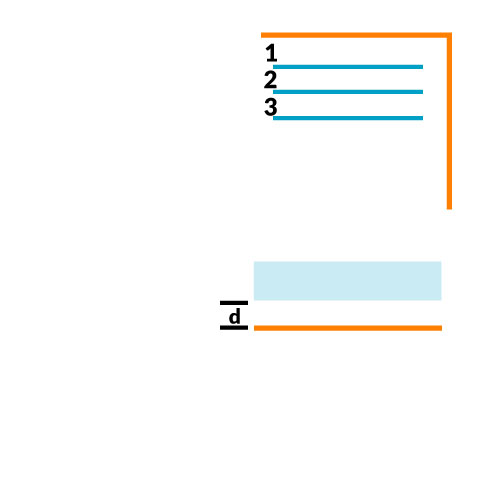
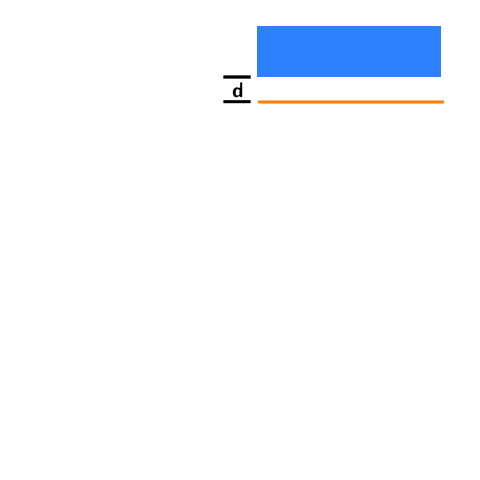
Contour Bnd Fixes, Large Offset fixes

Changed region(s): [[0.4688, 0.0312, 0.9688, 0.4375], [0.5312, 0.5312, 0.9375, 0.625], [0.4375, 0.625, 0.9375, 0.6875]]

diff --git a/SourceCode/GPS/Forms/Guidance/FormMakeBndCon.Designer.cs b/SourceCode/GPS/Forms/Guidance/FormMakeBndCon.Designer.cs
@@ -28,54 +28,12 @@
         /// </summary>
         private void InitializeComponent()
         {
-            this.nudPass = new System.Windows.Forms.NumericUpDown();
-            this.lblHz = new System.Windows.Forms.Label();
             this.btnOk = new System.Windows.Forms.Button();
             this.nudSpacing = new System.Windows.Forms.NumericUpDown();
             this.label1 = new System.Windows.Forms.Label();
             this.btnCancel = new System.Windows.Forms.Button();
-            ((System.ComponentModel.ISupportInitialize)(this.nudPass)).BeginInit();
             ((System.ComponentModel.ISupportInitialize)(this.nudSpacing)).BeginInit();
             this.SuspendLayout();
-            // 
-            // nudPass
-            // 
-            this.nudPass.BackColor = System.Drawing.Color.AliceBlue;
-            this.nudPass.Font = new System.Drawing.Font("Tahoma", 48F, System.Drawing.FontStyle.Regular, System.Drawing.GraphicsUnit.Point, ((byte)(0)));
-            this.nudPass.Location = new System.Drawing.Point(37, 69);
-            this.nudPass.Maximum = new decimal(new int[] {
-            9,
-            0,
-            0,
-            0});
-            this.nudPass.Minimum = new decimal(new int[] {
-            1,
-            0,
-            0,
-            0});
-            this.nudPass.Name = "nudPass";
-            this.nudPass.ReadOnly = true;
-            this.nudPass.Size = new System.Drawing.Size(120, 85);
-            this.nudPass.TabIndex = 5;
-            this.nudPass.TextAlign = System.Windows.Forms.HorizontalAlignment.Center;
-            this.nudPass.Value = new decimal(new int[] {
-            1,
-            0,
-            0,
-            0});
-            this.nudPass.Click += new System.EventHandler(this.NudPass_Click);
-            // 
-            // lblHz
-            // 
-            this.lblHz.AutoSize = true;
-            this.lblHz.BackColor = System.Drawing.Color.Transparent;
-            this.lblHz.Font = new System.Drawing.Font("Tahoma", 15.75F, System.Drawing.FontStyle.Bold);
-            this.lblHz.ImeMode = System.Windows.Forms.ImeMode.NoControl;
-            this.lblHz.Location = new System.Drawing.Point(34, 38);
-            this.lblHz.Name = "lblHz";
-            this.lblHz.Size = new System.Drawing.Size(84, 25);
-            this.lblHz.TabIndex = 250;
-            this.lblHz.Text = "Pass #";
             // 
             // btnOk
             // 
@@ -85,7 +43,7 @@
             this.btnOk.FlatStyle = System.Windows.Forms.FlatStyle.Flat;
             this.btnOk.Font = new System.Drawing.Font("Tahoma", 12F, System.Drawing.FontStyle.Bold);
             this.btnOk.Image = global::AgOpenGPS.Properties.Resources.OK64;
-            this.btnOk.Location = new System.Drawing.Point(341, 361);
+            this.btnOk.Location = new System.Drawing.Point(235, 257);
             this.btnOk.Margin = new System.Windows.Forms.Padding(5, 4, 5, 4);
             this.btnOk.Name = "btnOk";
             this.btnOk.Size = new System.Drawing.Size(129, 80);
@@ -98,7 +56,7 @@
             // 
             this.nudSpacing.BackColor = System.Drawing.Color.AliceBlue;
             this.nudSpacing.Font = new System.Drawing.Font("Tahoma", 48F, System.Drawing.FontStyle.Regular, System.Drawing.GraphicsUnit.Point, ((byte)(0)));
-            this.nudSpacing.Location = new System.Drawing.Point(30, 270);
+            this.nudSpacing.Location = new System.Drawing.Point(185, 123);
             this.nudSpacing.Maximum = new decimal(new int[] {
             4000,
             0,
@@ -117,7 +75,7 @@
             this.label1.BackColor = System.Drawing.Color.Transparent;
             this.label1.Font = new System.Drawing.Font("Tahoma", 15.75F, System.Drawing.FontStyle.Bold);
             this.label1.ImeMode = System.Windows.Forms.ImeMode.NoControl;
-            this.label1.Location = new System.Drawing.Point(34, 211);
+            this.label1.Location = new System.Drawing.Point(19, 140);
             this.label1.Name = "label1";
             this.label1.Size = new System.Drawing.Size(160, 50);
             this.label1.TabIndex = 253;
@@ -133,7 +91,7 @@
             this.btnCancel.Font = new System.Drawing.Font("Tahoma", 14.25F, System.Drawing.FontStyle.Regular, System.Drawing.GraphicsUnit.Point, ((byte)(0)));
             this.btnCancel.ForeColor = System.Drawing.SystemColors.ControlText;
             this.btnCancel.Image = global::AgOpenGPS.Properties.Resources.Cancel64;
-            this.btnCancel.Location = new System.Drawing.Point(225, 360);
+            this.btnCancel.Location = new System.Drawing.Point(119, 256);
             this.btnCancel.Margin = new System.Windows.Forms.Padding(2, 3, 2, 3);
             this.btnCancel.Name = "btnCancel";
             this.btnCancel.Size = new System.Drawing.Size(91, 81);
@@ -148,15 +106,13 @@
             this.AutoScaleMode = System.Windows.Forms.AutoScaleMode.Font;
             this.BackColor = System.Drawing.SystemColors.GradientActiveCaption;
             this.BackgroundImage = global::AgOpenGPS.Properties.Resources.MakeBoundaryContour;
-            this.BackgroundImageLayout = System.Windows.Forms.ImageLayout.Center;
-            this.ClientSize = new System.Drawing.Size(484, 461);
+            this.BackgroundImageLayout = System.Windows.Forms.ImageLayout.Stretch;
+            this.ClientSize = new System.Drawing.Size(378, 350);
             this.ControlBox = false;
             this.Controls.Add(this.btnCancel);
             this.Controls.Add(this.label1);
             this.Controls.Add(this.nudSpacing);
             this.Controls.Add(this.btnOk);
-            this.Controls.Add(this.lblHz);
-            this.Controls.Add(this.nudPass);
             this.Font = new System.Drawing.Font("Tahoma", 12F, System.Drawing.FontStyle.Regular, System.Drawing.GraphicsUnit.Point, ((byte)(0)));
             this.FormBorderStyle = System.Windows.Forms.FormBorderStyle.FixedDialog;
             this.Margin = new System.Windows.Forms.Padding(4);
@@ -166,7 +122,6 @@
             this.StartPosition = System.Windows.Forms.FormStartPosition.CenterParent;
             this.Text = "Make Boundary Contour";
             this.Load += new System.EventHandler(this.FormMakeBndCon_Load);
-            ((System.ComponentModel.ISupportInitialize)(this.nudPass)).EndInit();
             ((System.ComponentModel.ISupportInitialize)(this.nudSpacing)).EndInit();
             this.ResumeLayout(false);
             this.PerformLayout();
@@ -174,9 +129,6 @@
         }
 
         #endregion
-
-        private System.Windows.Forms.NumericUpDown nudPass;
-        private System.Windows.Forms.Label lblHz;
         private System.Windows.Forms.Button btnOk;
         private System.Windows.Forms.NumericUpDown nudSpacing;
         private System.Windows.Forms.Label label1;

diff --git a/SourceCode/GPS/Classes/CContour.cs b/SourceCode/GPS/Classes/CContour.cs
@@ -340,18 +340,6 @@ namespace AgOpenGPS
                     }
                 }
 
-                //for (int p = 0; p < stripList[stripCount].Count - backSpacing; p += 4)
-                //{
-                //    double dist = ((pivot.easting - stripList[stripCount][p].easting) * (pivot.easting - stripList[stripCount][p].easting))
-                //        + ((pivot.northing - stripList[stripCount][p].northing) * (pivot.northing - stripList[stripCount][p].northing));                    
-                //    if (dist < minDistA)
-                //    {
-                //        minDistA = dist;
-                //        stripNum = stripCount;
-                //        B = p;
-                //    }
-                //}
-
                 //no points in the box, exit
                 ptCount = stripList[stripNum].Count;
                 if (ptCount < 2)
@@ -381,7 +369,7 @@ namespace AgOpenGPS
 
                 minDistance = Math.Sqrt(minDistance);
 
-                if (minDistance > (mf.tool.toolWidth * 1.25 + 2 * mf.tool.toolOffset))
+                if (minDistance > (mf.tool.toolWidth * 1.5 + mf.tool.toolOffset))
                 {
                     ctList.Clear();
                     isLocked = false;
@@ -468,7 +456,7 @@ namespace AgOpenGPS
             double RefDist = (distanceFromRefLine + (isSameWay ? mf.tool.toolOffset : -mf.tool.toolOffset)) 
                                 / (mf.tool.toolWidth - mf.tool.toolOverlap);
 
-            double howManyPathsAway;
+            double howManyPathsAway = 0;
 
             if (Math.Abs(distanceFromRefLine) > mf.tool.halfToolWidth)
             {
@@ -478,9 +466,20 @@ namespace AgOpenGPS
             }
             else
             {
-                //driving on what is done
-                howManyPathsAway = 0;
+                if (Math.Abs(mf.tool.toolOffset) > mf.tool.halfToolWidth)
+                {
+                    if (RefDist < 0) howManyPathsAway = -1;
+                    else howManyPathsAway = 1;
+                }
+
+                else
+                {
+                    //driving on what is done
+                    howManyPathsAway = 0;
+                }
             }
+
+            //howManyPathsAway = -1;
 
             if (howManyPathsAway >= -1 && howManyPathsAway <= 1)
             {
@@ -498,7 +497,8 @@ namespace AgOpenGPS
                 ctList.Clear();
 
                 //don't guide behind yourself
-                if (stripNum == stripList.Count-1 && howManyPathsAway == 0) return;
+                if (stripNum == stripList.Count-1 && howManyPathsAway == 0) 
+                    return;
 
                 //make the new guidance line list called guideList
                 ptCount = stripList[stripNum].Count;
@@ -928,10 +928,10 @@ namespace AgOpenGPS
             vec3 point = new vec3();
             double totalHeadWidth;
             int signPass;
-            pass--;
 
-            signPass = 1;
-            totalHeadWidth = ((mf.tool.toolWidth - mf.tool.toolOverlap) * (pass+0.5)) + spacingInt;
+            signPass = -1;
+            //determine how wide a headland space
+            totalHeadWidth = ((mf.tool.toolWidth - mf.tool.toolOverlap) * 0.5) - spacingInt;
 
             //totalHeadWidth = (mf.tool.toolWidth - mf.tool.toolOverlap) * 0.5 + 0.2 + (mf.tool.toolWidth - mf.tool.toolOverlap);
 

diff --git a/SourceCode/GPS/Forms/Guidance/FormMakeBndCon.cs b/SourceCode/GPS/Forms/Guidance/FormMakeBndCon.cs
@@ -12,19 +12,19 @@ namespace AgOpenGPS
             mf = _mf as FormGPS;
             InitializeComponent();
 
-            lblHz.Text = gStr.gsPass;
+            //lblHz.Text = gStr.gsPass;
             label1.Text = gStr.gsSpacing;
 
             this.Text = gStr.gsMakeBoundaryContours;
 
-            nudPass.Controls[0].Enabled = false;
+            //nudPass.Controls[0].Enabled = false;
             nudSpacing.Controls[0].Enabled = false;
         }
 
         private void BtnOk_Click(object sender, System.EventArgs e)
         {
             //convert to meters
-            mf.ct.BuildFenceContours((int)nudPass.Value, (int)nudSpacing.Value);
+            mf.ct.BuildFenceContours(1, (int)nudSpacing.Value);
             Close();
         }
 
